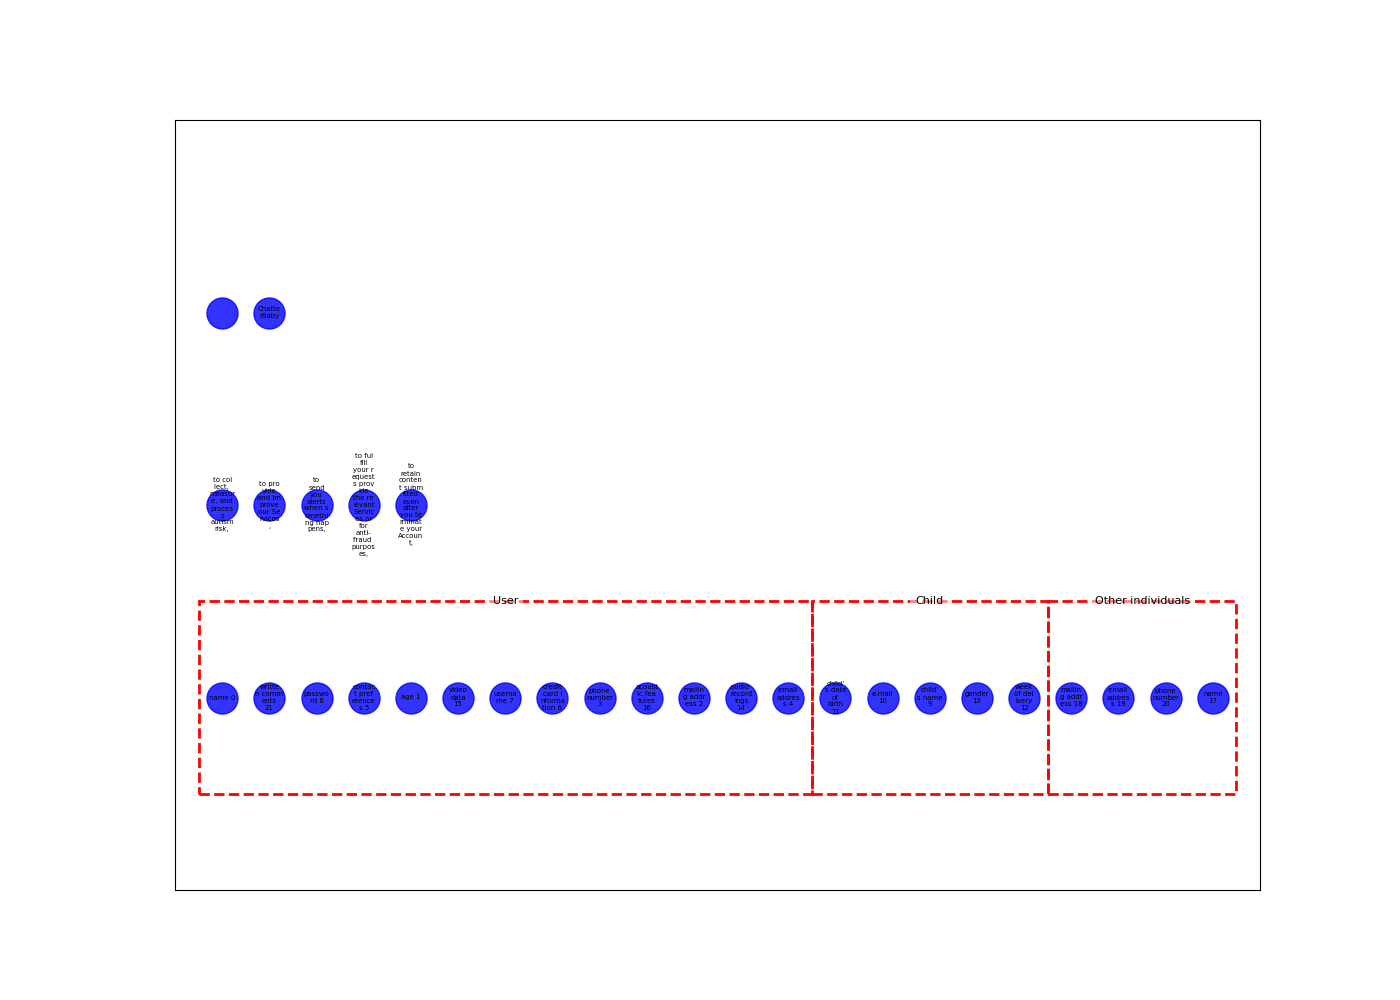
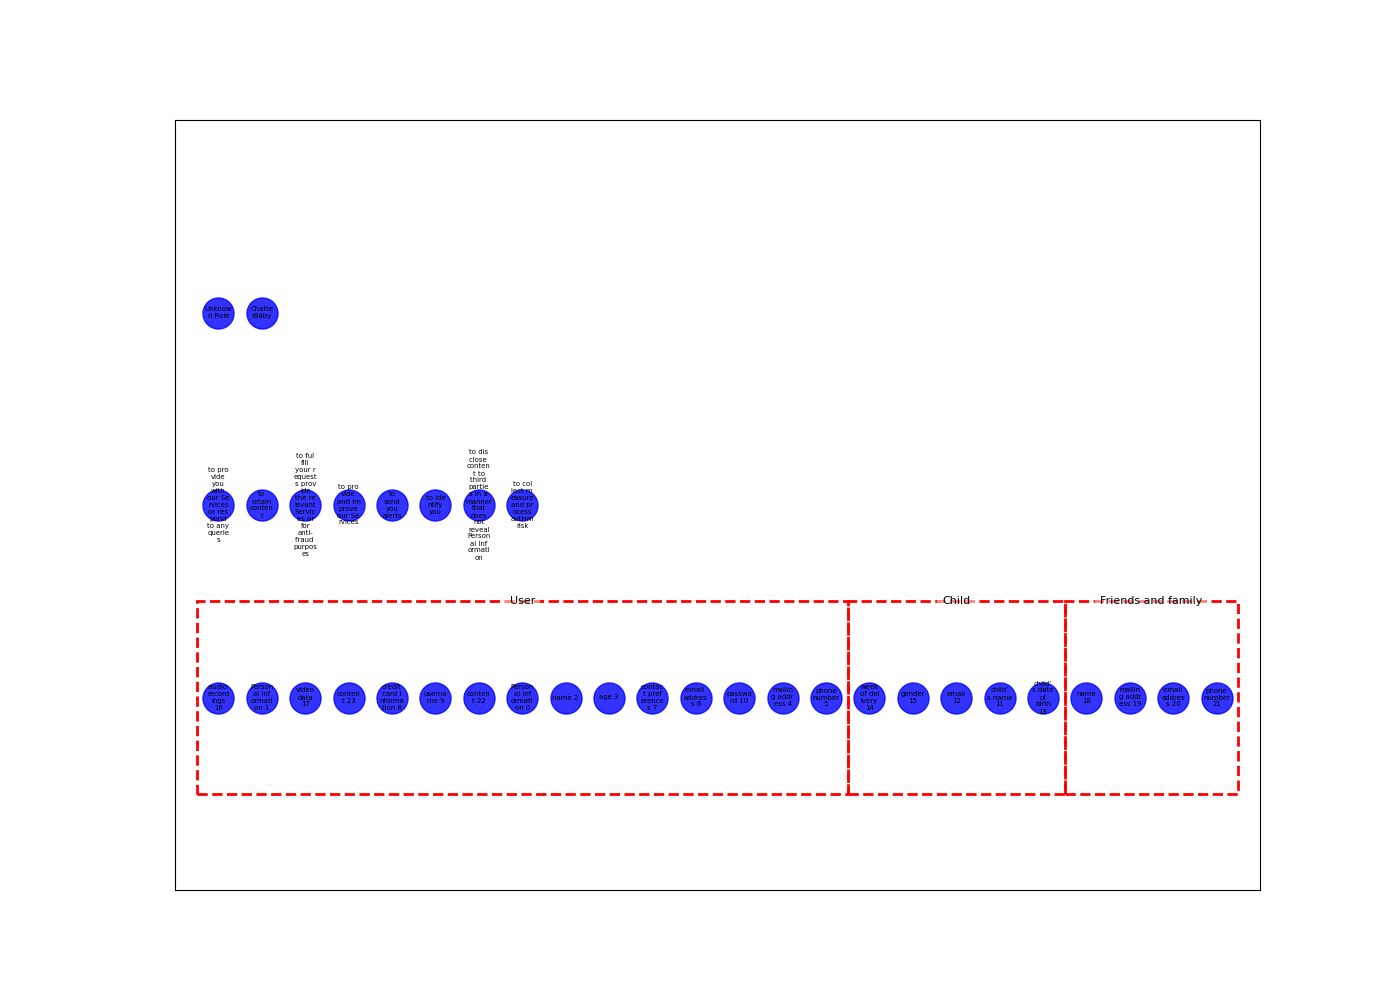
commit

diff --git a/app.py b/app.py
@@ -45,8 +45,8 @@ def process_input():
 
     prompt = (
     "Definition - Role: Those granted access to private information. (ie Manager, Deliverer, Analyzer, Marketer, etc.) People who need the information. \n"
-    "I want you to extract the role, purpose, data attribute, and category from the following natural language privacy policy sentence. "
-    "Use the format provided below for the extraction. If an element is not mentioned, leave it out.\n\n"
+    "I want you to extract the role, purpose, data attribute, and category from the following natural language privacy policy sentence."
+    "Use the format provided below for the extraction. If an element is not mentioned, leave it out. No commas allowed. Response should only consist of tuples.\n\n"
     "Format:\n"
     "(Role: <Role>, Purpose: <Purpose>, [Data Attribute: <Data Attribute>, ...], Category: <Category>)\n\n"
     "Natural Language Sentence: \"The manager needs the user's email address for account verification.\"\n\n"
@@ -109,7 +109,7 @@ def process_input():
     completion = client.chat.completions.create(
         model="gpt-4o",
         messages=[
-           {"role": "system", "content": "You extract (role, purpose, data attribute) tuples from the given privacy policy. Generate tuples strictly based on words explicitly stated in the privacy policy. No numbering or commas in purposes."},
+           {"role": "system", "content": "You extract (role, purpose, data attribute, category) tuples from the given privacy policy. Generate tuples strictly based on words explicitly stated in the privacy policy. No numbering or commas in purposes."},
            {"role": "user", "content": prompt + user_input}
         ]
     )
@@ -150,6 +150,59 @@ def delete_entry(entry_id):
 
 
 
+def parse_text(text):
+    results = []
+    # Remove leading and trailing whitespace and split by ')'
+    segments = text.strip().split(')')
+
+    for segment in segments:
+        segment = segment.strip()
+        if not segment:
+            continue
+        
+        # Remove leading '('
+        segment = segment[1:].strip()
+        
+        # Extract Data Attributes separately if present
+        data_attributes = ""
+        if "Data Attributes:" in segment:
+            before_data_attrs, after_data_attrs = segment.split("Data Attributes:", 1)
+            data_attributes_part, remaining = after_data_attrs.split(']', 1)
+            data_attributes = data_attributes_part.strip().strip('[]')
+            segment = before_data_attrs.strip() + remaining.strip()
+        
+        # Split the remaining part of the segment by commas
+        fields = segment.split(',')
+        
+        entry = {
+            "Role": "",
+            "Purpose": "",
+            "Data Attributes": data_attributes,  # Use the extracted data attributes
+            "Category": ""
+        }
+
+        for field in fields:
+            if ':' in field:
+                key, value = field.split(':', 1)
+                key = key.strip()
+                value = value.strip()
+                if key == 'Role':
+                    entry['Role'] = value
+                elif key == 'Purpose':
+                    entry['Purpose'] = value
+                elif key == 'Category':
+                    entry['Category'] = value
+
+        # Convert entry to tuple in the required format
+        result_tuple = (
+            entry['Role'],
+            entry['Purpose'],
+            entry['Data Attributes'],
+            entry['Category']
+        )
+        results.append(result_tuple)
+
+    return results
 
 
 
@@ -177,17 +230,18 @@ def parse_entry(entry_id):
         cursor.close()
 
         # Define the regex pattern
-        pattern = re.compile(
-    r"\(?(?:\s*Role:\s*(?P<Role>[^,]*)\s*,\s*)?"  # Optional Role
-    r"(?:\s*Purpose:\s*(?P<Purpose>.*?)(?=\s*Data Attributes:))"  # Optional Purpose
-    r"\s*Data Attributes:\s*\[(?P<DataAttributes>[^\]]+)\]\s*,\s*"  # Required Data Attributes
-    r"(?:\s*Category:\s*(?P<Category>[^\)]+)\s*)?"  # Optional Category
-    r"\)?"
-)
-
+        '''pattern = re.compile(
+    r"\s*\("  # Opening parenthesis (mandatory)
+    r"(?:\s*Role:\s*(?P<Role>[^,\)]+?)\s*,\s*)?"  # Optional Role
+    r"(?:\s*Purpose:\s*(?P<Purpose>.*?)(?=\s*(?:Data Attributes:|Category:|\)|$)))\s*"  # Optional Purpose
+    r"(?:\s*Data Attributes:\s*\[(?P<DataAttributes>[^\]]*)\]\s*,\s*)?"  # Optional Data Attributes
+    r"(?:\s*Category:\s*(?P<Category>[^\)\s]+)\s*)?"  # Optional Category
+    r"\)\s*"  # Mandatory closing parenthesis and trailing whitespace
+)'''
         
-        # Extract tuples from response text
-        matches = re.findall(pattern, response)
+
+        matches = parse_text(response)
+        print (matches)
         
         parsed_entries = []
         for match in matches:
@@ -202,14 +256,24 @@ def parse_entry(entry_id):
             # Split the data attributes by comma and strip any extra spaces
             data_attributes_list = [attr.strip() for attr in data_attributes.split(',') if attr]''' 
             role=match[0]
+            if match[0]=='':
+                role="Unknown Role"
             purpose=match[1]
+            if match[1]=='':
+                purpose="Unknown Purpose"
             data_attributes_list=match[2]
+            
             category=match[3]
+            
             data_attributes_list = [attr.strip() for attr in data_attributes_list.split(',') if attr]
 
             for data_attribute in data_attributes_list:
                 parsed_entries.append((role, purpose, data_attribute, category))
+            if len(data_attributes_list)==0:
+                parsed_entries.append((role, purpose, "Unknown Data Attribute", category))
+        
         print (matches)
+        print (parsed_entries)
         # Reconnect and insert data
         connection = mysql.connector.connect(**db_config)
         cursor = connection.cursor()
@@ -290,6 +354,7 @@ def graph():
     data_attribute_nodes = set()
     # Add nodes and edges
     k=0
+    print (parsed_entries)
     for entry in parsed_entries:
         role = entry[1].strip()
         purpose = entry[2].strip()
